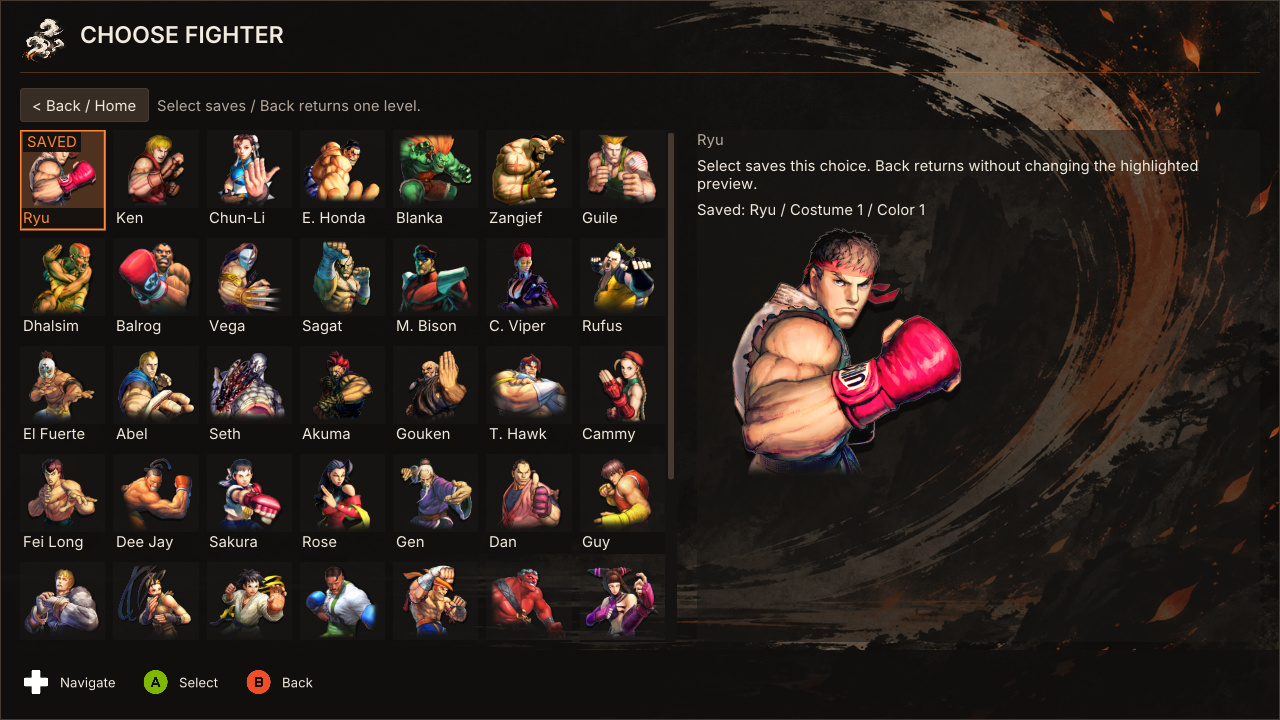
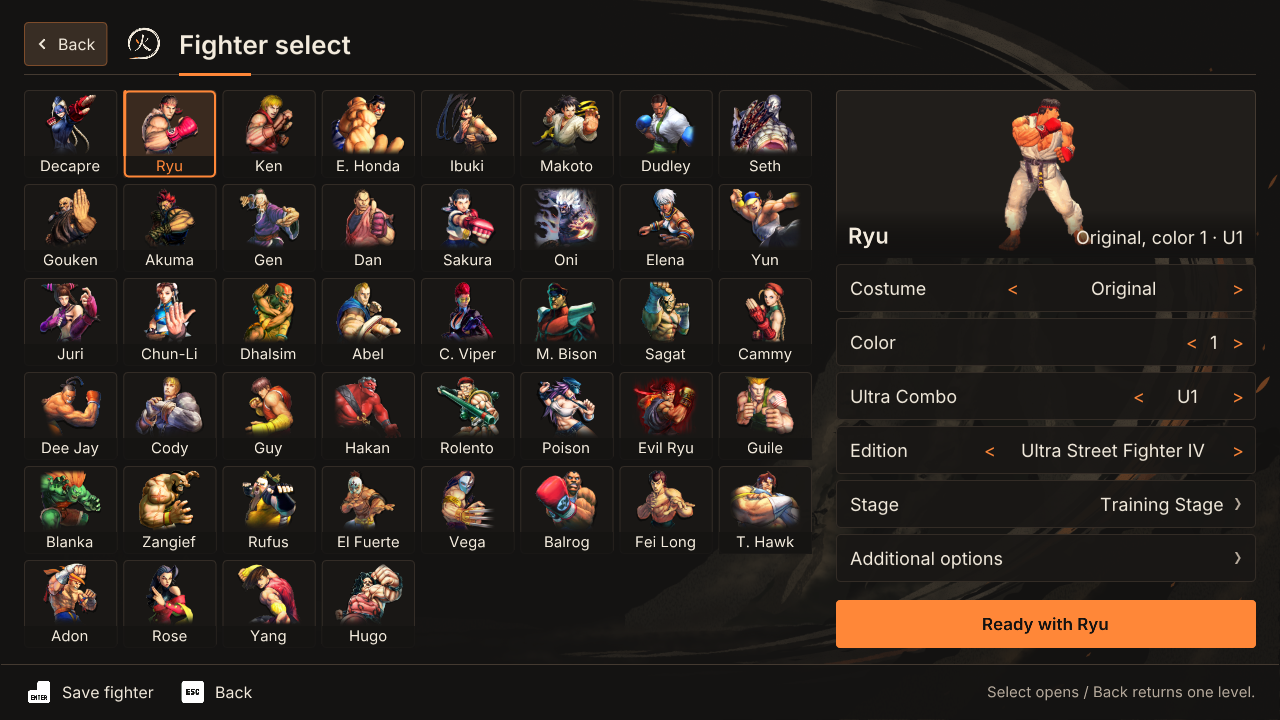
README: 1.5.0, which download to pick, and pictures of today's menus
The README still offered 1.4.1 and showed the 0.8.0 menus. It now links
1.5.0, says which of the release's six files each player needs, explains
Stable and Nightly and that a room needs one version, walks through Online
play as 1.5.0 has it, and corrects the stick's menu buttons (LK and MK).
Home, fighter select and a King of the hill room are new renders with
sample players; the README render shows set scores, not the width test's.

diff --git a/README.md b/README.md
@@ -2,115 +2,143 @@
   <img src="src/ui/ember.png" alt="Ember logo: the fire character in an open brush circle" width="112">
   <h1>SF4 Ember Netplay</h1>
   <p><strong>Your room. Your rivals. One more game.</strong></p>
-  <p>Private rollback rooms and a controller-first overlay for Ultra Street Fighter IV.</p>
+  <p>Rollback rooms, public rooms and training tools for Ultra Street Fighter IV.</p>
   <p>
-    <a href="https://github.com/Confetti3/SF4-Ember-Netplay/releases/tag/v1.4.1"><img alt="Release 1.4.1" src="https://img.shields.io/badge/release-1.4.1-e97835?style=flat-square&labelColor=242321"></a>
-    <img alt="Windows x64" src="https://img.shields.io/badge/platform-Windows_x64-e97835?style=flat-square&labelColor=242321">
+    <a href="https://github.com/Confetti3/SF4-Ember-Netplay/releases/latest"><img alt="Release 1.5.0" src="https://img.shields.io/badge/release-1.5.0-e97835?style=flat-square&labelColor=242321"></a>
+    <img alt="Windows x64, Linux and Steam Deck through Proton" src="https://img.shields.io/badge/platform-Windows_%7C_Proton-e97835?style=flat-square&labelColor=242321">
     <a href="LICENSE"><img alt="MIT license" src="https://img.shields.io/badge/license-MIT-e97835?style=flat-square&labelColor=242321"></a>
     <a href="https://discord.gg/uPNqF5A5uq"><img alt="Join the Discord" src="https://img.shields.io/badge/discord-join-e97835?style=flat-square&labelColor=242321&logo=discord&logoColor=white"></a>
   </p>
   <p>
-    <strong><a href="https://github.com/Confetti3/SF4-Ember-Netplay/releases/download/v1.4.1/sf4-ember-netplay-1.4.1.zip">Download v1.4.1 for Windows</a></strong>
-    &nbsp; · &nbsp; <a href="#get-started">Get started</a>
-    &nbsp; · &nbsp; <a href="docs/guides/USER_NETPLAY.md">Player guide</a>
-    &nbsp; · &nbsp; <a href="docs/release-notes/RELEASE_NOTES_v1.4.1.md">Release notes</a>
+    <strong><a href="https://github.com/Confetti3/SF4-Ember-Netplay/releases/download/v1.5.0/sf4-ember-netplay-1.5.0-setup.exe">Download Ember 1.5.0 for Windows</a></strong>
+    &nbsp; · &nbsp; <a href="#which-download-do-i-need">Which download?</a>
+    &nbsp; · &nbsp; <a href="docs/guides/STEAM_DECK.md">Steam Deck</a>
+    &nbsp; · &nbsp; <a href="docs/release-notes/RELEASE_NOTES_v1.5.0.md">What's new</a>
     &nbsp; · &nbsp; <a href="https://discord.gg/uPNqF5A5uq">Discord</a>
   </p>
 </div>
 
-![SF4 Ember Netplay home overlay with the Ember background and controller navigation](docs/images/ember-home.png)
+![Ember's Home screen, with the menu on the left and the player card and news on the right](docs/images/ember-home.png)
 
-**SF4 Ember Netplay** brings private rooms, four rollback battle tables, spectators and offline training tools into a fixed in-game interface. Create a room, share an invitation and choose where to play or watch. The charcoal, ivory and orange interface supports controllers, arcade sticks and keyboard navigation.
+**SF4 Ember Netplay** adds rollback netplay to the Steam copy of Ultra Street Fighter IV. Make a room and send the link, or drop into a public room and play. Up to 16 people share a room: some play at its tables while the rest queue, watch live and chat. Ember's menus work with a pad, an arcade stick, the keyboard or the mouse.
 
-An **experimental unofficial port** of **[sf4e](https://codeberg.org/adanducci/sf4e)** by **Anthony Danducci and contributors**, under the MIT license. Anthony Danducci does not maintain, endorse or support this build. Ember is not affiliated with Capcom or Valve. See [attribution](ATTRIBUTION.md) and [scope and limitations](docs/guides/SCOPE_AND_LIMITATIONS.md).
+Ember is free and open source. It is an **unofficial port** of **[sf4e](https://codeberg.org/adanducci/sf4e)** by **Anthony Danducci and contributors**, under the MIT license. Anthony Danducci does not maintain, endorse or support it, and Ember is not affiliated with Capcom or Valve. See [attribution](ATTRIBUTION.md) and [scope and limitations](docs/guides/SCOPE_AND_LIMITATIONS.md).
 
-## Inside Ember
+## Which download do I need?
 
-| Play together | Make it yours |
-| --- | --- |
-| Private rooms for up to 16 members | Fighter, edition, costume, color and Ultra selection |
-| Four battle tables, queues and spectators | Player profile, main fighter and confirmed online record |
-| Room chat and short invitations | SF4 controller assignment, including DirectInput sticks |
-| Iroh networking and Discord invitations | Controller prompts and interface settings |
-| Practice rooms and Wait in Training | Replay library with video export |
+The [release page](https://github.com/Confetti3/SF4-Ember-Netplay/releases/latest) lists six files. Most people need only one of them:
 
-### A room for the whole group
+| You are | Download | Then |
+| --- | --- | --- |
+| **New to Ember, on Windows** | [`sf4-ember-netplay-1.5.0-setup.exe`](https://github.com/Confetti3/SF4-Ember-Netplay/releases/download/v1.5.0/sf4-ember-netplay-1.5.0-setup.exe) | Install into a new, empty folder. It adds a Start menu entry and an uninstaller. |
+| New, and you'd rather not run an installer | [`sf4-ember-netplay-1.5.0.zip`](https://github.com/Confetti3/SF4-Ember-Netplay/releases/download/v1.5.0/sf4-ember-netplay-1.5.0.zip) | Extract everything into a new, writable folder. |
+| **Already on Ember 1.4.1** | Nothing | Start Ember. It offers the update at launch and keeps your settings, recordings and replays. |
+| On an Ember older than 1.4.1 | The setup.exe above | Run it over your Ember folder. It updates the folder in place. |
+| **On a Steam Deck or Linux** | See the guide | [Steam Deck guide](docs/guides/STEAM_DECK.md) or [Linux guide](docs/guides/LINUX.md). Ember runs through Proton. |
+| On the old SF4 Netplay Launcher | The setup.exe or zip above | Moving to Ember is a fresh install. Keep the old launcher in its own folder. |
 
-![Ember room overlay showing battle tables, members, fighter portraits and room chat with sample session data](docs/images/ember-room.png)
+You don't need the other files:
 
-Join a table, enter its queue or watch the next game. Room membership and active matches are separate, and each member plays one game at a time.
+- **`upgrade-…-1.4.1-to-1.5.0.zip`** is what Ember's own updater downloads. You never need to open it yourself.
+- **`.sha256` files** are checksums, for checking a download.
+- **Source code (zip / tar.gz)**, which GitHub adds to every release, is the code. It is not something you can play.
 
-### Choose your fighter
+**Everyone in a room needs the same Ember version, spectators included.** 1.4.1 and 1.5.0 cannot share a room. If a friend can't join you, check that you both show 1.5.0 under **Settings > About**.
 
-![Ember fighter selection showing the character roster and selected fighter artwork](docs/images/ember-fighter-selection.png)
+### Stable and Nightly
 
-Save your fighter and appearance before joining a room or while waiting. Select your edition, Ultra and available costume and color; P1 chooses the stage.
-
-### Find your look
-
-![Ember costume selection showing alternate outfits and the selected costume preview](docs/images/ember-costumes.png)
-
-Browse costume previews, choose an available outfit and fine-tune its color before returning to your room.
-
-The screenshots above were captured from the 0.8.0 UI renderer using sample session data, so some screens have changed since. They are not photographs of a live multiplayer test.
-
-### Frame meter
-
-![Ember frame meter showing player timelines and frame advantage during Juri versus Hakan training](docs/images/ember-frame-meter.png)
-
-An in-game capture supplied by the project owner, showing Ember's frame meter, player timelines and frame-advantage readout during training.
+This repository publishes **Stable** releases, the ones linked above. **Nightly** builds, with the newest features before they're finished, come from the separate [Nightly repository](https://github.com/Confetti3/SF4-Ember-Netplay-Nightly/releases). Nightly players can only play rooms with other Nightly players. To switch, choose **Update channel** under **Settings > About** in Ember. Stable is the right choice unless you want to test new features.
 
 ## Get started
 
-You need **Windows 10 or later (x64)**, an owned **Steam copy of Ultra Street Fighter IV**, and the **latest Microsoft Visual C++ x86 runtime** (the launcher will not start with an older one and offers the download). The game is not included. On a Steam Deck, follow the [Steam Deck guide](docs/guides/STEAM_DECK.md) instead.
+You need **Windows 10 or later (x64)** and your own **Steam copy of Ultra Street Fighter IV**. The game is not included. You also need the latest **Microsoft Visual C++ x86 runtime**: Ember offers the download if yours is missing or too old.
 
-1. For a fresh installation, [download the complete v1.4.1 ZIP](https://github.com/Confetti3/SF4-Ember-Netplay/releases/download/v1.4.1/sf4-ember-netplay-1.4.1.zip) and its [SHA-256 checksum](https://github.com/Confetti3/SF4-Ember-Netplay/releases/download/v1.4.1/sf4-ember-netplay-1.4.1.zip.sha256). Choose a release package, not GitHub's source-code download. Alternatively, [setup.exe](https://github.com/Confetti3/SF4-Ember-Netplay/releases/download/v1.4.1/sf4-ember-netplay-1.4.1-setup.exe) installs Ember into an empty folder with a Start menu entry and an uninstaller.
-2. Extract everything into a **new writable folder**. Keep your old launcher installation separate; moving from the legacy launcher to Ember is a fresh install.
-3. Run `preflight.cmd`, then `Launcher.exe`. Successful startup goes directly to the game. If needed, select the folder containing `SSFIV.exe` in launch recovery.
-4. At the main menu, choose your controller and player name. Use **Online play → Create room**, then copy the invitation. Guests choose **Join room** and paste it.
-5. Choose a table, join its queue or watch. Save your fighter selection and ready when seated. **All participants must use the same Ember release.**
+1. Install Ember as shown in [Which download do I need?](#which-download-do-i-need)
+2. Start **Ember** from the Start menu, or run `Launcher.exe` from the folder. The game starts with Ember in it. If Ember can't find the game, it asks for the folder with `SSFIV.exe`.
+3. The first time, Ember asks whether to read its menus aloud, which language to use and which controller you'll play with. You can skip this and change it later in **Settings**.
+4. Press **F10**, or **Start** at the game's main menu, to open Ember. Go to **Online play**:
+   - **Public rooms** lists open rooms. **Quick join** finds a free seat for you.
+   - **Create room** makes a private room. Copy its invitation or short link and send it to your friends.
+   - **Join room** takes an invitation a friend sent you. A short link opens Ember and joins from your browser.
+5. In the room, sit at a free seat, join a table's queue or watch. Choose your fighter, then press **Ready**.
 
-No VPS account or manual port configuration is required. Iroh can use public relays when a direct connection is unavailable. Discord support is included in the package.
+You don't need an account, a VPS or any port forwarding. When two players can't connect directly, Ember goes through a relay. Discord is optional, for invitations and your Discord status. If Windows Defender stops the download, see [Windows Defender](docs/guides/WINDOWS_DEFENDER.md).
+
+You'll find public rooms, rankings and shared replays on the website too: [embernetplay.link/rooms](https://embernetplay.link/rooms), [embernetplay.link/rankings](https://embernetplay.link/rankings) and the [replay archive](https://archive.embernetplay.link/).
+
+## What's inside
+
+| Play together | Make it yours |
+| --- | --- |
+| Private rooms for up to 16 people, with 1 to 8 tables | Fighter, edition, costume, color and Ultra on one board |
+| Public rooms, Quick join, rankings and classes (D to Grand Master) | Player card with your main, flag, title and record |
+| Arcade and King of the hill rooms with cabinets | Pads, arcade sticks, keyboard and mouse |
+| Sets from first to 1 up to first to 10, and instant rematch | Menus read aloud, TV mode and 14 languages |
+| Spectating, room chat and short links | Training with a frame meter, dummy recording and replies |
+| Tournaments with Ember ID | A replay library, video export and a public replay archive |
+
+### A room for the whole group
+
+![A King of the hill room with sixteen cabinets, the members list and chat, using made-up sample players](docs/images/ember-king-of-the-hill.png)
+
+Sit at a table, join its queue or watch the next game. The room host sets the rules for each table, such as rounds, time and set length. After a game, both players can choose to rematch at once without going back to the room. In **Arcade** and **King of the hill** rooms, players sit at cabinets and the winner stays on.
+
+### Choose your fighter
+
+![Ember's fighter select, with the roster and the chosen fighter's costume, color and Ultra](docs/images/ember-fighter-selection.png)
+
+Pick your fighter, edition, costume, color and Ultra on one board, before you join a room or while you wait. Costume previews show each outfit and color before you choose it.
+
+### Frame meter
+
+![Ember's frame meter during a Juri versus Hakan training session](docs/images/ember-frame-meter.png)
+
+**Play offline > Training** opens on its own select for your fighter, the dummy and the stage. Inside Training you get a frame meter, frame data, hitboxes, dummy recording and dummy replies. See the [Training lab guide](docs/guides/TRAINING_LAB.md).
+
+The menu pictures above are drawn by Ember's own interface code with made-up sample players. The frame meter picture is from a real game.
 
 ### Controls
 
-| Action | Keyboard | Assigned XInput controller | DirectInput / arcade stick |
+| Action | Keyboard | Xbox-style pad | DirectInput arcade stick |
 | --- | --- | --- | --- |
-| Navigate | Arrow keys | D-pad | SF4-mapped directions |
-| Select | Enter | A | SF4-mapped Light Punch |
-| Back | Escape | B | SF4-mapped Light Kick |
-| Open at safe menu states | F10 | Start | SF4-mapped Start |
-| Change fighter (in a room) | none | X | none |
-| Table options (in a room) | none | Y | none |
-| Chat (in a room) | none | View | none |
+| Open Ember | F10 | Start (at the game's main menu) | Start |
+| Move | Arrow keys | D-pad | Stick |
+| Select | Enter | A | Light kick |
+| Back | Escape | B | Medium kick |
+| Previous / next tab | Page Up / Page Down | LB / RB | Light punch / Heavy punch |
+| Change fighter (in a room) | F | X | |
+| Table options (in a room) | T | Y | |
+| Chat (in a room) | C | View | |
 
-Back returns through menus, and from Home it hides Ember. On your own table card in a room, Back leaves your seat or queue place at once. Leaving the room itself requires the explicit **Leave room** action. Use **Play offline** for native game menus. More detail: [controller guide](docs/guides/CONTROLLER_MENUS.md).
+The right mouse button also goes back. You can choose other menu buttons for a stick on its **Button layout** screen. Back from Home hides Ember and keeps you in your room. To leave a room, use **Leave room**. More detail is in the [controller guide](docs/guides/CONTROLLER_MENUS.md).
 
-## Settings, updates and legacy builds
+## Settings and updates
 
-Existing Ember preferences remain under `%APPDATA%\sf4e`. Help & About provides the version, update checking, attribution and redacted diagnostic exports. Ember updates use the renamed repository and verify the downloaded ZIP's SHA-256 before installation.
+Ember keeps your settings in `%APPDATA%\sf4e`, so they stay through updates. **Settings > About** shows your version and has **Check for updates**, the update channel, attribution and diagnostics. Each update is checked against its SHA-256 before it installs.
 
-**`release` is the current Ember branch.** [Legacy `main`](https://github.com/Confetti3/SF4-Ember-Netplay/tree/c6f2f1907f396c40a8542cc056e3bafa2adb3bde) preserves the previous SF4 Netplay Launcher. Its releases and [archived README](docs/archive/README-pre-ember.md) remain available. Legacy in-place upgrades to Ember are not supported; follow the fresh-install steps above.
+**`release` is Ember's current branch.** [Legacy `main`](https://github.com/Confetti3/SF4-Ember-Netplay/tree/c6f2f1907f396c40a8542cc056e3bafa2adb3bde) keeps the old SF4 Netplay Launcher, with its [archived README](docs/archive/README-pre-ember.md). The [branch archive](docs/archive/README.md) keeps retired development branches as tagged snapshots.
 
-Browse the [branch archive](docs/archive/README.md) for all retired development branches, preserved as tagged snapshots with their original commit history.
-
-## Status and documentation
-
-Ember remains experimental. Local builds, automated UI and transport tests, and package verification do not establish native gameplay acceptance. Results and repeated rematches, spectators, disconnect recovery, different-network play and clean-machine behavior require recorded SF4 testing. Read the [limitations](docs/guides/SCOPE_AND_LIMITATIONS.md) before playing.
+## Guides
 
 | Guide | What it covers |
 | --- | --- |
-| [Player guide](docs/guides/USER_NETPLAY.md) | Hosting, joining, controls and day-to-day play |
-| [Steam Deck and Linux](docs/guides/STEAM_DECK.md) | Installing through Proton, updating, uninstalling and where the logs are |
+| [Player guide](docs/guides/USER_NETPLAY.md) | Hosting, joining, updates and day-to-day play |
+| [Ember's menus](docs/guides/V2_MENUS.md) | Home, Settings, the room board and how to move around them |
+| [Steam Deck](docs/guides/STEAM_DECK.md) and [Linux](docs/guides/LINUX.md) | Installing through Proton, updating, uninstalling and where the logs are |
 | [Training lab](docs/guides/TRAINING_LAB.md) | Frame meter, dummy recording and dummy replies, with a notation cheat sheet |
-| [Custom rooms](docs/guides/CUSTOM_ROOMS.md) | Tables, queues, spectators and room behavior |
-| [Discord integration](docs/guides/DISCORD.md) | Presence, invitations and privacy |
+| [Custom rooms](docs/guides/CUSTOM_ROOMS.md) | Tables, queues, spectators and room rules |
+| [Tournaments](docs/guides/TOURNAMENT_MODE.md) | Ember ID and playing organized tournaments |
+| [Accessibility](docs/guides/ACCESSIBILITY.md) | Speech, TV mode and the accessibility button |
+| [Input lag](docs/guides/INPUT_LAG.md) | Input delay and the game's own settings |
+| [Discord](docs/guides/DISCORD.md) | Invitations, your Discord status and privacy |
 | [Troubleshooting](docs/guides/TROUBLESHOOTING.md) | Startup, connections and diagnostics |
-| [Saving logs](docs/guides/SAVING_LOGS.md) | Save logs and diagnostics from both players for a bug report |
-| [Build and package](docs/development/BUILDING.md) | Reproducible local builds and release provenance |
-| [Server](server/README.md) | Everything that runs on the Ember server: bridge, public rooms, short links, hosting |
-| [Server traffic](docs/development/SERVER_TRAFFIC.md) | Diagrams of what travels between the Ember server and players, for public and private rooms |
-| [All documentation](docs/README.md) | Design notes, validation results, reports and release notes |
+| [Saving logs](docs/guides/SAVING_LOGS.md) | Saving logs from both players for a bug report |
+| [Windows Defender](docs/guides/WINDOWS_DEFENDER.md) | When antivirus flags Ember |
+| [Build and package](docs/development/BUILDING.md) | Building Ember yourself |
+| [Server](server/README.md) | The Ember server: bridge, public rooms, short links and hosting |
+| [All documentation](docs/README.md) | Design notes, test results, reports and release notes |
+
+Ember is still experimental. Read the [limitations](docs/guides/SCOPE_AND_LIMITATIONS.md) before you play.
 
 ## Community
 

diff --git a/docs/images/README.md b/docs/images/README.md
@@ -1,6 +1,6 @@
-# Ember 0.8.0 interface captures
+# Ember interface captures
 
-The home, room, fighter and costume PNGs are captured directly from the production Ember UI using `UiRenderTest`
+The home, room, King of the hill, fighter and costume PNGs are captured directly from the production Ember UI using `UiRenderTest`
 with the `--readme-shots` option. The room names, members, chat and profile are fictional sample data. The game is not launched by this renderer.
 Portraits are decoded from an owned Steam installation; selection artwork comes
 from the repository's credited assets. See [attribution](../../ATTRIBUTION.md).
